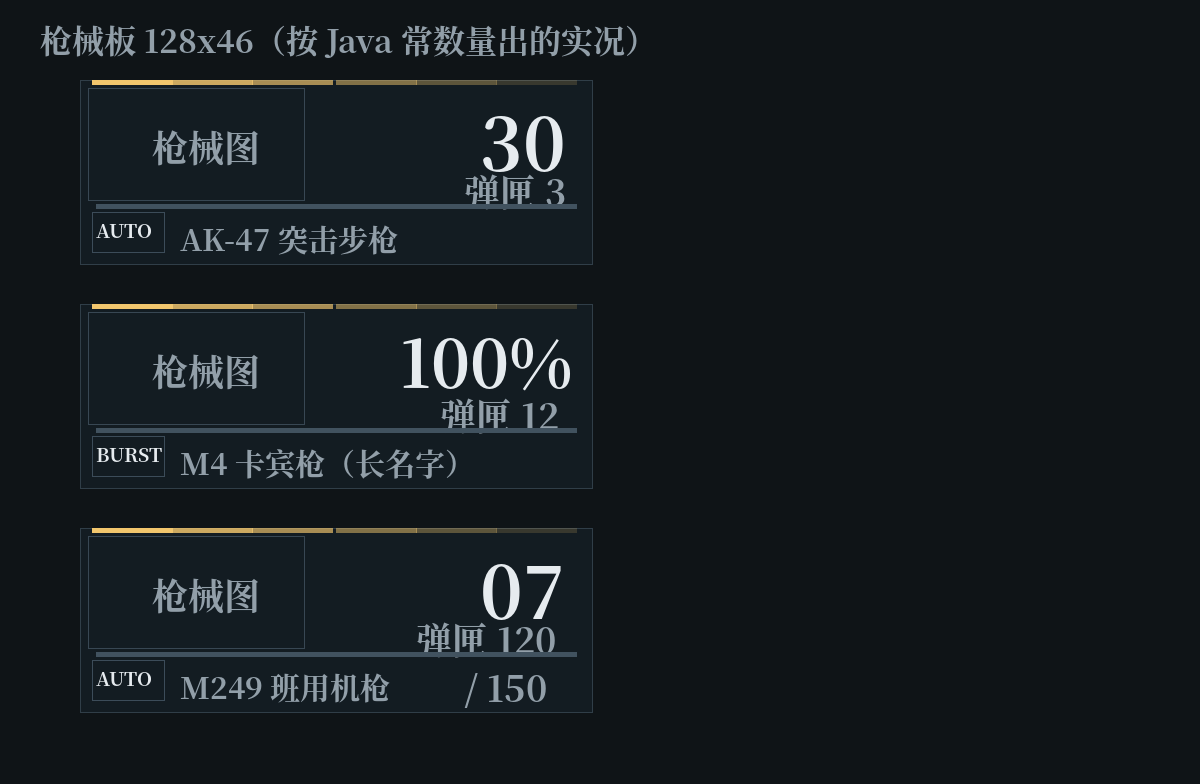
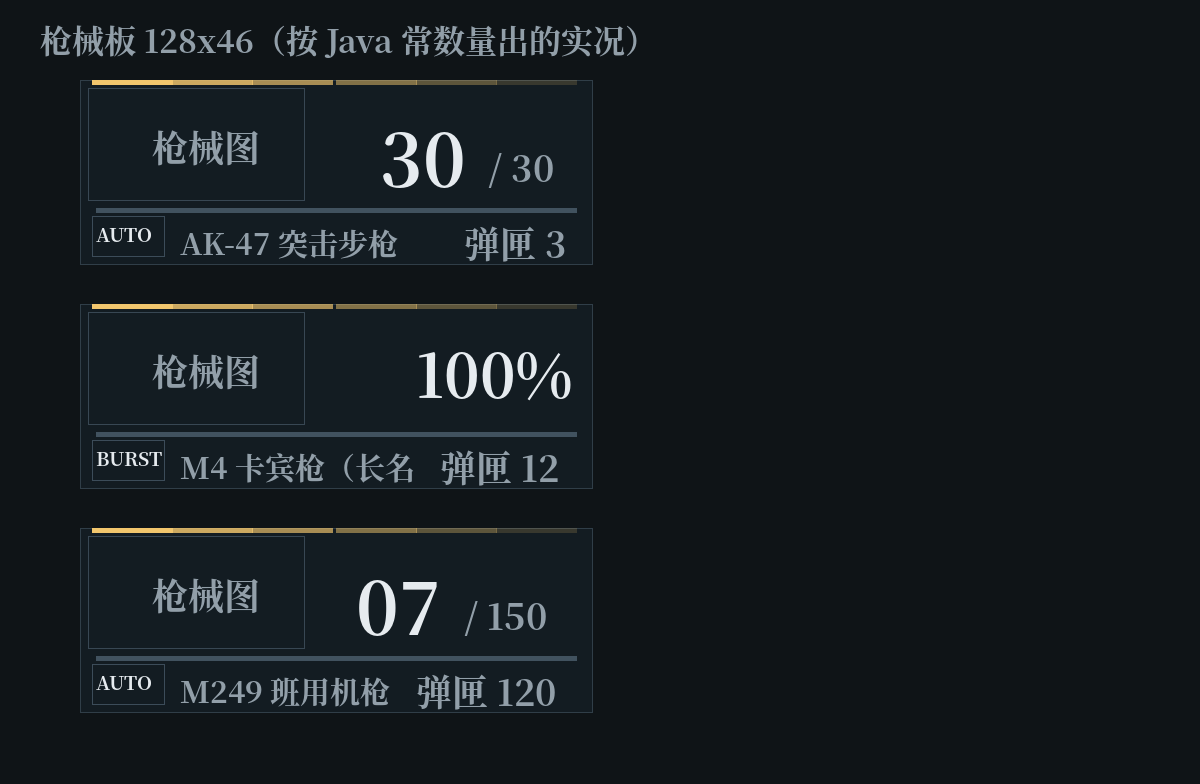
ui: pair the magazine capacity with the ammo and move the reserve aside
- '30 / 30' now reads as one value: the big count keeps its size, the capacity
  sits baseline-aligned to its right in muted colour, and the pair is clamped so
  it never runs into the gun art.
- The reserve magazine count moved to the caption row on the right, where the
  capacity used to be.
- The hairline moved to y32 so there are two pixels of air on both sides; no text
  line touches it any more (that overlap was the reason the caption looked bad).

Same source of truth as before: the preview script and UI_FRAME 8.7 follow the
Java constants.

Changed region(s): [[0.0617, 0.7041, 0.4933, 0.9184], [0.0617, 0.4286, 0.4933, 0.6122], [0.0617, 0.1531, 0.4933, 0.3367]]

diff --git a/src/main/java/dev/felix/hostilehumans/monitor/client/MonitorGunHud.java b/src/main/java/dev/felix/hostilehumans/monitor/client/MonitorGunHud.java
@@ -88,33 +88,37 @@ public final class MonitorGunHud {
         catch(RuntimeException|LinkageError ignored) { }
         String amount=percent?String.format(Locale.ROOT,"%.0f%%",data.capacity()==0?0:100D*data.loaded()/data.capacity())
                 :String.format(Locale.ROOT,jeg?"%03d":"%02d",data.loaded());
-        // Right column: the big count sits above the reserve, both flush with the panel edge.
-        float scale=Math.min(2F,44F/Math.max(1,font.width(amount)));
-        int amountWidth=Math.min(44,Math.round(font.width(amount)*scale));
-        g.pose().pushPose();try {g.pose().translate(x+pw-4-amountWidth,y+2,0);g.pose().scale(scale,scale,1);g.drawString(font,amount,0,0,data.loaded()==0?theme.danger():theme.text(),false);}
+        // Ammo and capacity read as one pair ("30 / 30") and sit centred in the band above the
+        // hairline, so no text can touch the divider.
+        String capacity=percent?"":"/ "+data.capacity();
+        float scale=Math.min(2F,40F/Math.max(1,font.width(amount)));
+        int amountWidth=Math.min(40,Math.round(font.width(amount)*scale));
+        int capacityWidth=capacity.isEmpty()?0:font.width(capacity);
+        int pairWidth=amountWidth+(capacityWidth>0?3+capacityWidth:0);
+        int pairX=Math.max(x+58,x+pw-4-pairWidth);
+        g.pose().pushPose();try {g.pose().translate(pairX,y+6,0);g.pose().scale(scale,scale,1);g.drawString(font,amount,0,0,data.loaded()==0?theme.danger():theme.text(),false);}
         finally{g.pose().popPose();}
-        String reserve=Component.translatable("human_monitor.gun.magazines",value.infinite()?"∞":value.magazines()).getString();
-        String reserveText=clipTail(font,reserve,pw-8);
-        g.drawString(font,reserveText,x+pw-4-font.width(reserveText),y+21,theme.muted(),false);
+        if(capacityWidth>0)g.drawString(font,capacity,pairX+amountWidth+3,y+15,theme.muted(),false);
+        UiDraw.ruleFade(g,x+4,y+32,pw-8,theme.edge());
+        // Caption row: fire mode, then the gun name, then the reserve magazines on the right.
         String mode=value.reloading()?Component.translatable("human_monitor.gun.reloading").getString():data.energy()?"FE":data.mode();
-        UiDraw.ruleFade(g,x+4,y+31,pw-8,theme.edge());
-        // Bottom row: fire mode, then the gun name as a caption, then the magazine capacity.
         int modeWidth=18;
         if(data.backend().equals("tacz") && !value.reloading())
-            dev.felix.hostilehumans.client.ui.gun.TaczMonitorHud.mode(g,data.mode(),x+3,y+33);
+            dev.felix.hostilehumans.client.ui.gun.TaczMonitorHud.mode(g,data.mode(),x+3,y+34);
         else {
             String shown=font.plainSubstrByWidth(mode,modeWidth);
-            g.drawString(font,shown,x+3,y+33,theme.text(),false);
+            g.drawString(font,shown,x+3,y+34,theme.text(),false);
             modeWidth=Math.max(modeWidth,font.width(shown));
         }
-        String capacity=data.backend().equals("tacz")?"":"/ "+data.capacity();
-        int capacityWidth=capacity.isEmpty()?0:font.width(capacity);
-        if(!capacity.isEmpty())g.drawString(font,capacity,x+pw-4-capacityWidth,y+33,theme.muted(),false);
-        // The name is a caption, not a heading: drawn at 0.85 so the ammo count stays the hero.
         int nameX=x+3+modeWidth+4;
-        int nameRoom=Math.max(20,x+pw-4-capacityWidth-3-nameX);
+        String reserve=Component.translatable("human_monitor.gun.magazines",value.infinite()?"∞":value.magazines()).getString();
+        int reserveMax=Math.max(20,(x+pw-4)-(nameX+40)-2);
+        String reserveText=clipTail(font,reserve,reserveMax);
+        int reserveWidth=font.width(reserveText);
+        g.drawString(font,reserveText,x+pw-4-reserveWidth,y+34,theme.muted(),false);
+        int nameRoom=Math.max(20,x+pw-4-reserveWidth-3-nameX);
         String name=font.plainSubstrByWidth(held.getHoverName().getString(),(int)(nameRoom/.85F));
-        g.pose().pushPose();try {g.pose().translate(nameX,y+34,0);g.pose().scale(.85F,.85F,1);g.drawString(font,name,0,0,theme.muted(),false);}
+        g.pose().pushPose();try {g.pose().translate(nameX,y+35,0);g.pose().scale(.85F,.85F,1);g.drawString(font,name,0,0,theme.muted(),false);}
         finally{g.pose().popPose();}
         }finally{g.pose().popPose();}
     }

diff --git a/maintenance-tools/ui-preview/weapon_slab.py b/maintenance-tools/ui-preview/weapon_slab.py
@@ -54,35 +54,38 @@ def slab(d, ox, oy, name, amount, reserve, mode_label, capacity):
     # gun art 54x28
     d.rectangle([(x + 2) * S, (y + 2) * S, (x + 56) * S, (y + 30) * S], outline=rgba(EDGE, .8))
     d.text(((x + 18) * S, (y + 10) * S), "枪械图", font=FONT, fill=rgba(MUTED, 1))
-    # ammo, right aligned
-    sc = min(2.0, 44 / max(1, width(amount)))
-    amount_w = min(44, round(width(amount) * sc))
-    big = ImageFont.truetype("/usr/share/fonts/opentype/noto/NotoSerifCJK-Bold.ttc", int(9 * S * sc))
-    d.text(((x + PW - 4) * S - amount_w * S, (y + 2) * S), amount, font=big, fill=rgba(TEXT, 1))
-    # reserve
-    shown = clip_tail(reserve, PW - 8)
-    d.text(((x + PW - 4) * S - width(shown) * S, (y + 21) * S), shown, font=FONT, fill=rgba(MUTED, 1))
-    # separator
-    d.rectangle([(x + 4) * S, (y + 31) * S, (x + PW - 4) * S, (y + 32) * S], fill=rgba(EDGE, 1))
-    # bottom row: mode, name, capacity
-    mode_w = 18
-    d.rectangle([(x + 3) * S, (y + 33) * S, (x + 3 + mode_w) * S, (y + 43) * S], outline=rgba(EDGE, .9))
-    d.text(((x + 4) * S, (y + 34) * S), mode_label, font=ImageFont.truetype(
-        "/usr/share/fonts/opentype/noto/NotoSerifCJK-Bold.ttc", int(9 * S * .55)), fill=rgba(TEXT, 1))
+    # ammo + capacity pair, right aligned
+    sc = min(2.0, 40 / max(1, width(amount)))
+    amount_w = min(40, round(width(amount) * sc))
     cap_w = width(capacity) if capacity else 0
-    if capacity:
-        d.text(((x + PW - 4) * S - cap_w * S, (y + 33) * S), capacity, font=FONT, fill=rgba(MUTED, 1))
+    pair_w = amount_w + (3 + cap_w if cap_w else 0)
+    pair_x = max(x + 58, x + PW - 4 - pair_w)
+    big = ImageFont.truetype("/usr/share/fonts/opentype/noto/NotoSerifCJK-Bold.ttc", int(9 * S * sc))
+    d.text((pair_x * S, (y + 6) * S), amount, font=big, fill=rgba(TEXT, 1))
+    if cap_w:
+        d.text(((pair_x + amount_w + 3) * S, (y + 15) * S), capacity, font=FONT, fill=rgba(MUTED, 1))
+    # hairline
+    d.rectangle([(x + 4) * S, (y + 32) * S, (x + PW - 4) * S, (y + 33) * S], fill=rgba(EDGE, 1))
+    # caption row
+    mode_w = 18
+    d.rectangle([(x + 3) * S, (y + 34) * S, (x + 3 + mode_w) * S, (y + 44) * S], outline=rgba(EDGE, .9))
+    d.text(((x + 4) * S, (y + 35) * S), mode_label, font=ImageFont.truetype(
+        "/usr/share/fonts/opentype/noto/NotoSerifCJK-Bold.ttc", int(9 * S * .55)), fill=rgba(TEXT, 1))
     name_x = x + 3 + mode_w + 4
-    room = max(20, x + PW - 4 - cap_w - 3 - name_x)
+    reserve_max = max(20, (x + PW - 4) - (name_x + 40) - 2)
+    shown_reserve = clip_tail(reserve, reserve_max)
+    reserve_w = width(shown_reserve)
+    d.text(((x + PW - 4) * S - reserve_w * S, (y + 34) * S), shown_reserve, font=FONT, fill=rgba(MUTED, 1))
+    room = max(20, x + PW - 4 - reserve_w - 3 - name_x)
     small = ImageFont.truetype("/usr/share/fonts/opentype/noto/NotoSerifCJK-Bold.ttc", int(9 * S * .85))
-    d.text((name_x * S, (y + 34) * S), clip(name, int(room / .85)), font=small, fill=rgba(MUTED, 1))
+    d.text((name_x * S, (y + 35) * S), clip(name, int(room / .85)), font=small, fill=rgba(MUTED, 1))
 
 img = Image.new("RGB", (300 * S, 196 * S), (15, 20, 23))
 d = ImageDraw.Draw(img, "RGBA")
 d.text((10 * S, 4 * S), "枪械板 128x46（按 Java 常数量出的实况）", font=ImageFont.truetype(
     "/usr/share/fonts/opentype/noto/NotoSerifCJK-Bold.ttc", 8 * S), fill=rgba(MUTED, 1))
-slab(d, 20, 20, "AK-47 突击步枪", "30", "弹匣 3", "AUTO", None)
-slab(d, 20, 76, "M4 卡宾枪（长名字）", "100%", "弹匣 12", "BURST", None)
+slab(d, 20, 20, "AK-47 突击步枪", "30", "弹匣 3", "AUTO", "/ 30")
+slab(d, 20, 76, "M4 卡宾枪（长名字）", "100%", "弹匣 12", "BURST", "")
 slab(d, 20, 132, "M249 班用机枪", "07", "弹匣 120", "AUTO", "/ 150")
 img.save(os.path.join(OUT, "weapon-slab.png"))
 print("ok")

diff --git a/docs/UI_FRAME.md b/docs/UI_FRAME.md
@@ -144,10 +144,12 @@
 
 ### 8.7 枪械板重新排版（2026-11-03）
 
-上一版把板子缩到 128×46 之后，弹匣文字仍按固定 26px 裁剪，`弹匣 3` 被切掉；名字占了一整行、还会和枪图/边框打架。现在按三条横带重排：
+上一版把板子缩到 128×46 之后有三处问题：弹匣文字按固定 26px 裁剪，`弹匣 3` 被切掉；名字占一整行、会压到枪图和边框；容量和弹数分开两行，读起来不是一个整体。现在按两带排列：
 
-- **上带**（y 2–30）：枪图 54×28（原 40×20，放大），右侧是右对齐的大号弹数（≤2 倍、最宽 44px）与它下方的弹匣数。
-- **分隔线**（y 31）。
-- **下带**（y 33–43）：射击模式图标/文字、武器名称、右侧容量。
+- **上带**（y 2–30）：枪图放大到 54×28；右侧是"弹数 / 容量"一对，例如 `30 / 30`——大号弹数在左、容量用弱化色紧贴其右侧并底对齐，两者整体右对齐，所以一眼就能读出"还有几发、上限多少"。
+- **细分隔线**（y 32）。
+- **下带**（y 34–43）：射击模式（图标或文字）、武器名称、右侧的弹匣数。
 
-弹匣文字不再用固定宽度，而是 `pw-8` 整行宽度，并用 `clipTail` 从左侧裁剪——万一是英文 "Magazines 120"，被截掉的是标签而不是数字。武器名称降级为**说明文字**：挪到射击模式右侧、用弱化色、并缩到 0.85 倍，把主视觉让给弹药数；可用宽度按剩余空间算，不会再压到容量。可用宽度不足时只截名字，不影响其它字段。
+几个约束写进了计算里，不再是写死的偏移：弹匣文字用 `clipTail` 从左侧裁剪，英文 "Magazines 120" 被截时丢的是标签不是数字；名字的可用宽度 = 面板右边减掉弹匣实际宽度，且优先给名字留 40px，所以它既不会压到模式块，也不会和弹匣重叠；弹数与容量的整对也做了左边界钳制（不侵入枪图）。分隔线上下各留 2px 余量，任何文字行都不再贴线。
+
+加了一张对照图（`docs/images/ui-preview/weapon-slab.png`，由 `maintenance-tools/ui-preview/weapon_slab.py` 按同一批常数生成，覆盖普通弹数 / 百分比弹数 / 三位数弹数三种情况）。
